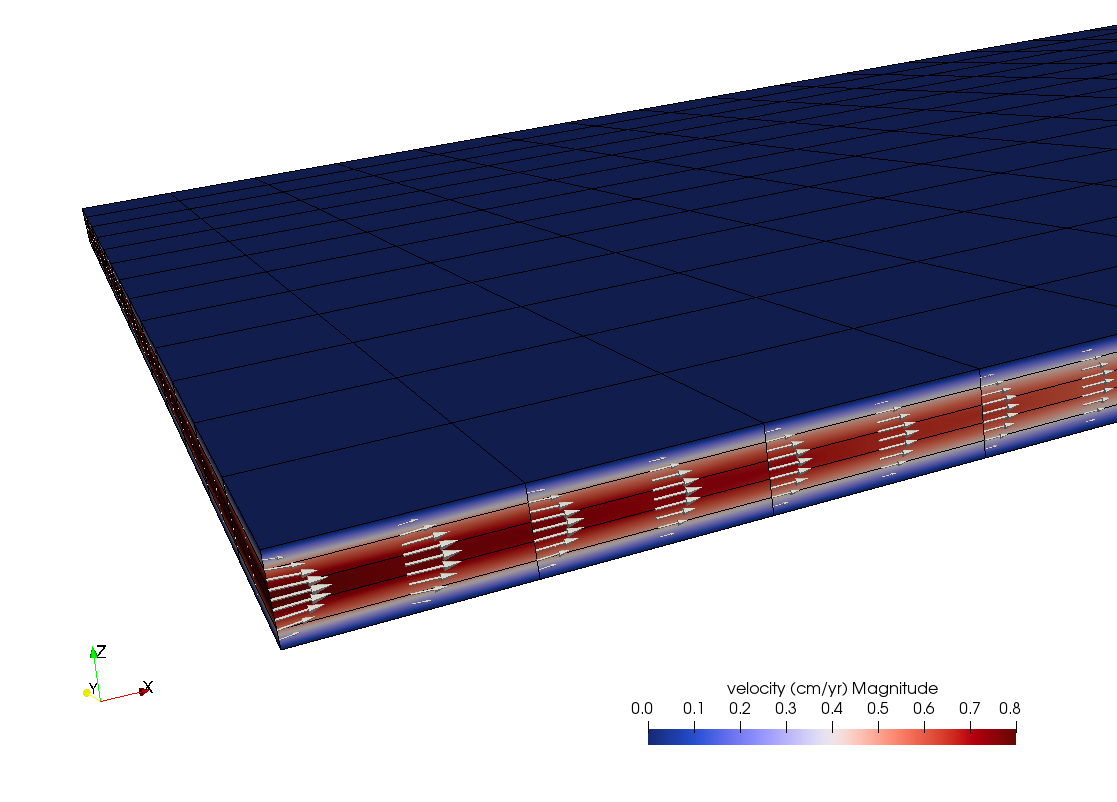
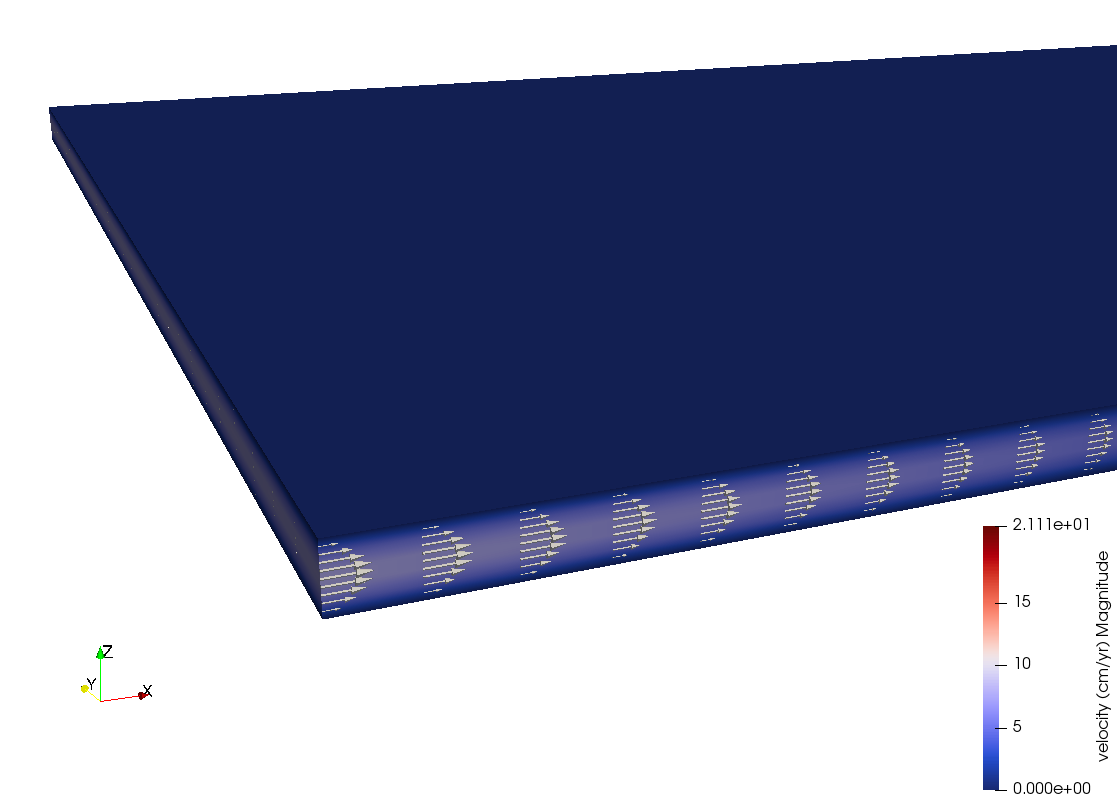
f109updt

diff --git a/python_codes/fieldstone_109/stone.py b/python_codes/fieldstone_109/stone.py
@@ -176,21 +176,22 @@ print("-----------------------------")
 ndim=3
 ndofV=3
 ndofP=1
+mV=27
+mP=8
 
 Lx=1000e3
 Ly=500e3
 Lz=15e3
 
+nelx=28
+nely=14
 nelz=5
-nelx=26
-nely=13
 
+nnx=2*nelx+1
+nny=2*nely+1
+nnz=2*nelz+1
 nel=nelx*nely*nelz
-
 NV=(2*nelx+1)*(2*nely+1)*(2*nelz+1)
-mV=27
-mP=8
-
 NP=(nelx+1)*(nely+1)*(nelz+1)
 NfemV=NV*ndofV
 NfemP=NP*ndofP
@@ -199,10 +200,6 @@ Nfem=NfemV+NfemP
 hx=Lx/nelx
 hy=Ly/nely
 hz=Lz/nelz
-
-nnx=2*nelx+1
-nny=2*nely+1
-nnz=2*nelz+1
 
 print('nelx =',nelx)
 print('nely =',nely)
@@ -226,7 +223,7 @@ gx=0
 gy=0
 gz=0
 
-U=0.8*cm/year
+U0=8*cm/year
 
 rho=3000
 
@@ -239,8 +236,8 @@ tVnodes=[-1,-1,-1,-1,1,1,1,1, -1,-1,-1,-1,1,1,1,1,0,0,0,0, -1,0,0,0,0,1,0 ]
 
 eta_ref=1e21
 
-Pi2=8*0.8*cm/year*2e18/Lz**2 * Lx /2
-print('Pi/2=',Pi)
+Pi2=8*U0*2e18/Lz**2 * Lx /2
+print('Pi/2=',Pi2)
 
 #################################################################
 # grid point setup
@@ -365,9 +362,13 @@ bc_val = np.zeros(NfemV, dtype=np.float64)  # boundary condition, value
 
 for i in range(0,NV):
     if xV[i]/Lx<eps:
-       bc_fix[i*ndofV]   = True ; bc_val[i*ndofV]   = U*zV[i]*(Lz-zV[i])*4/Lz**2
+       bc_fix[i*ndofV]   = True ; bc_val[i*ndofV+0]   = U0*zV[i]*(Lz-zV[i])*4/Lz**2
+       bc_fix[i*ndofV+1] = True ; bc_val[i*ndofV+1] = 0.
+       bc_fix[i*ndofV+2] = True ; bc_val[i*ndofV+2] = 0.
     if xV[i]/Lx>(1-eps):
-       bc_fix[i*ndofV]   = True ; bc_val[i*ndofV]   = U*zV[i]*(Lz-zV[i])*4/Lz**2
+       bc_fix[i*ndofV]   = True ; bc_val[i*ndofV+0]   = U0*zV[i]*(Lz-zV[i])*4/Lz**2
+       bc_fix[i*ndofV+1] = True ; bc_val[i*ndofV+1] = 0.
+       bc_fix[i*ndofV+2] = True ; bc_val[i*ndofV+2] = 0.
     if yV[i]/Ly<eps:
        bc_fix[i*ndofV+1] = True ; bc_val[i*ndofV+1] = 0.
     if yV[i]/Ly>(1-eps):
@@ -648,19 +649,40 @@ print("project p onto Vnodes: %.3f s" % (timing.time() - start))
 start = timing.time()
 
 p_analytical=np.zeros(NV,dtype=np.float64)
+p_analytical1=np.zeros(NV,dtype=np.float64)
+p_analytical2=np.zeros(NV,dtype=np.float64)
 theta=np.zeros(NV,dtype=np.float64)
 
 kappa=(Lz/2)**2/3/eta(0,0,0)
 
 a=200e3
 
+U=U0*2/3
+    
+plinefile=open('p_line.ascii',"w")
+psurffile=open('p_surf.ascii',"w")
+
 for i in range(0,NV):
     ri=np.sqrt((xV[i]-Lx/2)**2+(yV[i])**2)
     theta[i]=math.atan2(yV[i],xV[i]-Lx/2)    
     if ri>=a:
        p_analytical[i]=-U/kappa*(ri+a**2/ri)*np.cos(theta[i])
+       p_analytical1[i]=-U/kappa*(ri)*np.cos(theta[i])
+       p_analytical2[i]=-U/kappa*(a**2/ri)*np.cos(theta[i])
+
+       if abs(yV[i]/Ly)<eps and abs(zV[i]-Lz)/Lz<eps:
+          plinefile.write("%e %e %e %e %e %e %e \n" %(xV[i],q[i],p_analytical[i],p_analytical1[i],\
+                                                p_analytical2[i],q[i]-p_analytical[i],p_analytical[i]/q[i]))
+       if abs(zV[i]-Lz)/Lz<eps:
+          psurffile.write("%e %e %e %e %e %e %e %e\n" %(xV[i],yV[i],q[i],p_analytical[i],p_analytical1[i],\
+                                                p_analytical2[i],q[i]-p_analytical[i],p_analytical[i]/q[i]))
     else:
        p_analytical[i]=0
+       p_analytical1[i]=0
+       p_analytical2[i]=0
+
+plinefile.close()
+psurffile.close()
 
 print("compute analytical pressure: %.3f s" % (timing.time() - start))
 
@@ -704,6 +726,16 @@ if True:
     vtufile.write("<DataArray type='Float32' Name='p_analytical' Format='ascii'> \n")
     for i in range(0,NV):
         vtufile.write("%10e \n" %p_analytical[i])
+    vtufile.write("</DataArray>\n")
+    #--
+    vtufile.write("<DataArray type='Float32' Name='p_analytical(1)' Format='ascii'> \n")
+    for i in range(0,NV):
+        vtufile.write("%10e \n" %p_analytical1[i])
+    vtufile.write("</DataArray>\n")
+    #--
+    vtufile.write("<DataArray type='Float32' Name='p_analytical(2)' Format='ascii'> \n")
+    for i in range(0,NV):
+        vtufile.write("%10e \n" %p_analytical2[i])
     vtufile.write("</DataArray>\n")
     #--
     vtufile.write("<DataArray type='Float32' Name='theta' Format='ascii'> \n")

diff --git a/python_codes/fieldstone_109/text.tex b/python_codes/fieldstone_109/text.tex
@@ -17,11 +17,12 @@ The domain is $1000\times500\times15~\si{\km}$. Gravity is set to zero so densit
 Boundary conditions are no slip at the top and bottom, free slip on $y=0$ and $y=L_y$ and 
 a parabolic Poiseuille flow is prescribed on $x=0$ and $x=L_x$:
 \[
-u(z)=U \frac{4z(L_z-z)  }{L_z^2}
+u(z)=U_0 \frac{4z(L_z-z)  }{L_z^2}
 \]
-with $U=8~\si{\mm\per\year}$.
+with $U_0=80~\si{\mm\per\year}$.
 
-The obstacle is centered on $(Lx/2,0)$ and has a radius of $a=200~\si{\km}$.
+The obstacle is centered on $(L_x/2,0)$ and has a radius of $a=200~\si{\km}$ (because of the symmetry of the problem
+I only model half of the domain).
 It is assigned a viscosity $\eta=2\cdot 10^{21}~\si{\pascal\second}$ which is 1000 times larger than the viscosity
 of the channel $\eta=2\cdot 10^{18}~\si{\pascal\second}$.
 
@@ -35,7 +36,7 @@ removed by enforcing that pressure is volume normalised, i.e. $\int_\Omega p \; 
 Taylor-Hood pair $Q_2\times Q_1$ (see Section~\ref{ss:pairq2q1}).
 The numbering of the nodes follows the one of the VTK format as shown hereunder. 
 In retrospect it is not the most straightforward one but it is irrelevant with regards 
-to the calculations. A complete layout of the nodes is present in the images folder. 
+to the calculations. A complete layout of the nodes is present in the images folder of this stone. 
 
 \begin{center}
 \includegraphics[width=5.5cm]{python_codes/fieldstone_109/images/numbering}
@@ -51,7 +52,7 @@ p(r,\theta) =
  -\frac{U a^2 }{\kappa r}  \cos \theta
 \]
 is also computed and projected onto the mesh (pressure is then set to zero inside the 
-obstacle). 
+obstacle) (where $U=2U_0/3$, see \stone 108). 
 
 %------------------------------
 \subsubsection*{Benchmarking}
@@ -69,11 +70,11 @@ there is more pressure applied to the left than to the right of the channel.
 
 Looking above at our applied boundary velocity we find that 
 \[
-\frac{1}{2}\frac{|\Pi|}{\eta_0} = \frac{4U}{L_z^2}
+\frac{1}{2}\frac{|\Pi|}{\eta_0} = \frac{4U_0}{L_z^2}
 \]
 or, $|\Pi|\simeq 18.03$. The domain is 1000~\si{\km} long 
 so $\Delta P = |\Pi| L_x \simeq 18,027,001$ i.e. we expect the pressure to 
-be $9,013,500~\si{\pascal}$ at $x=0$ and $-9,013,500~\si{\pascal}$ at $x=L_x$. 
+be $90,135,005~\si{\pascal}$ at $x=0$ and $-90,135,005~\si{\pascal}$ at $x=L_x$. 
 
 \begin{center}
 \includegraphics[width=7cm]{python_codes/fieldstone_109/results/bench/vel}
@@ -106,6 +107,10 @@ Note that the computed pressure does not depend on the $z$-coordinate (while of 
 is rather large and this is likely to alter the accuracy of the calculations.}
 \end{center}
 
+The recovered pressure is rather similar to the analytical one. Indeed we find that an increase in resolution and 
+an increase in domain size (especially $L_z$) brings the computed pressure closer and closer to the 
+analytical one. At the max resolution that fits on my 32Gb laptop pressures are off by less than 10\%.
+
 I have also run this experiment with the \aspect code and the prm file is present in 
 the folder of this stone. Resolution was higher than above ($160 \times 80 \times 16 =204,800$ elements).
 
@@ -120,7 +125,7 @@ We find that the results obtained with \aspect do not differ substantially from 
 obtained with this stone, despite a much higher resolution.
 
 We find that the pressure min and max are quite larger than the isoviscous case (about 12.35MPa instead 
-of 9.014MPa). 
+of 9.014MPa).  
 
 
 
